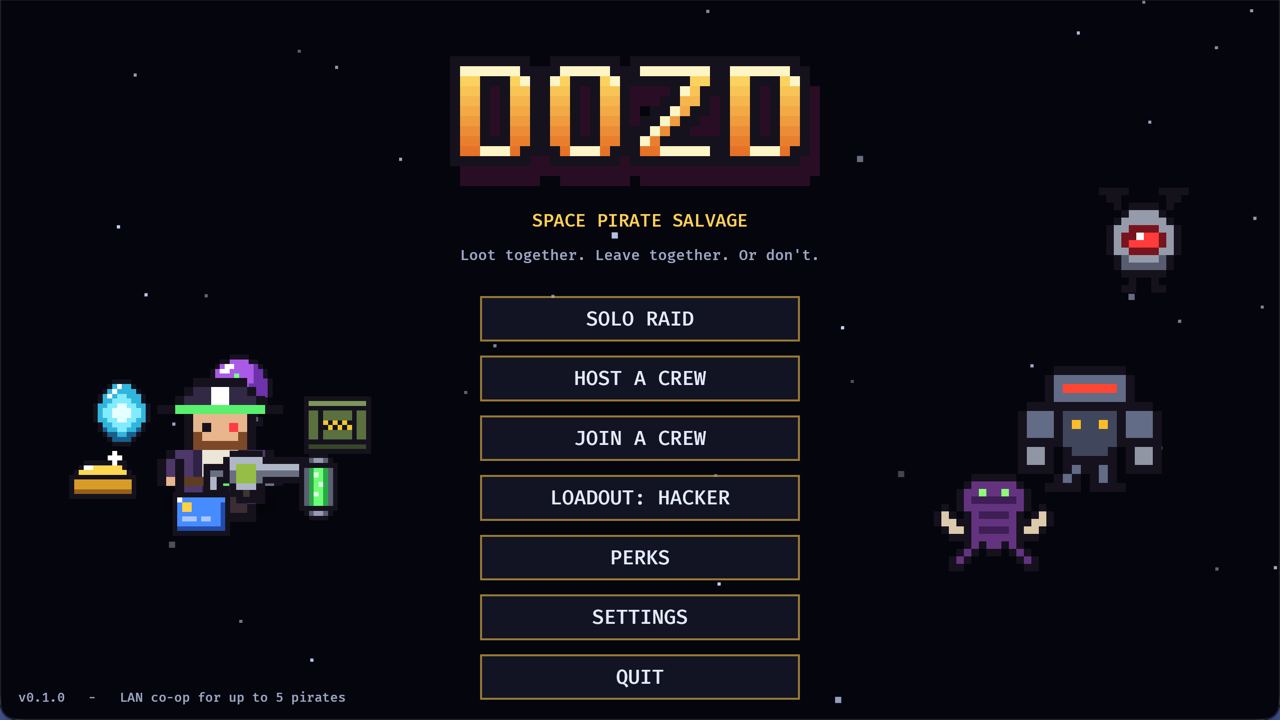
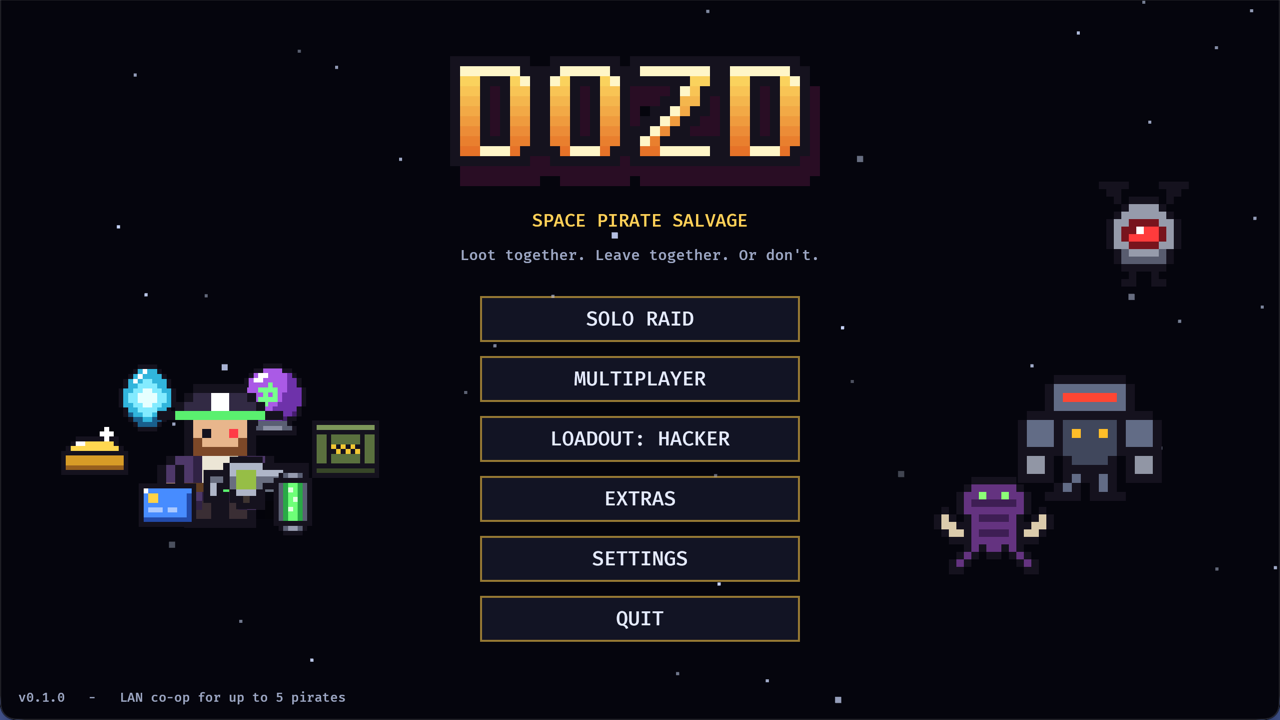
Added multiplayer and extras menus with an enemies screen

diff --git a/src/menu.rs b/src/menu.rs
@@ -8,6 +8,7 @@ use bevy::window::{CursorOptions, PrimaryWindow};
 use crate::class::{LocalLoadout, Loadout, PirateClass};
 use crate::guns::GunKind;
 use crate::crew::Roster;
+use crate::enemies::EnemyKind;
 use crate::net::{
     ChooseLoadout, Connection, DEFAULT_PORT, EndSession, LocalId, NetMode, Notice, StartSession, local_ip, parse_port,
     resolve,
@@ -46,6 +47,9 @@ impl Plugin for MenuPlugin {
             .add_systems(OnEnter(GameState::Lobby), (lobby_screen, show_cursor))
             .add_systems(OnExit(GameState::Lobby), hide_cursor)
             .add_systems(OnEnter(MenuScreen::Main), main_screen)
+            .add_systems(OnEnter(MenuScreen::Multiplayer), multiplayer_screen)
+            .add_systems(OnEnter(MenuScreen::Extras), extras_screen)
+            .add_systems(OnEnter(MenuScreen::Enemies), enemies_screen)
             .add_systems(OnEnter(MenuScreen::Host), host_screen)
             .add_systems(OnEnter(MenuScreen::Join), join_screen)
             .add_systems(OnEnter(MenuScreen::Loadout), loadout_screen)
@@ -92,20 +96,39 @@ impl Plugin for MenuPlugin {
 enum MenuScreen {
     #[default]
     Main,
+    /// Host or join.
+    Multiplayer,
     Host,
     Join,
     Loadout,
+    /// Perks and enemies.
+    Extras,
     Perks,
+    Enemies,
     Settings,
+}
+
+impl MenuScreen {
+    /// Where BACK leads from here.
+    fn parent(self) -> Self {
+        match self {
+            Self::Host | Self::Join => Self::Multiplayer,
+            Self::Perks | Self::Enemies => Self::Extras,
+            _ => Self::Main,
+        }
+    }
 }
 
 #[derive(Component, Event, Clone, Copy, PartialEq, Eq, Debug)]
 enum MenuCommand {
     Solo,
+    OpenMultiplayer,
     OpenHost,
     OpenJoin,
     OpenLoadout,
+    OpenExtras,
     OpenPerks,
+    OpenEnemies,
     OpenSettings,
     Toggle(Setting),
     Quit,
@@ -351,10 +374,9 @@ fn main_screen(mut commands: Commands, assets: Res<AssetServer>, loadout: Res<Lo
     let loadout_label = format!("LOADOUT: {}", loadout.0.class.name());
     commands.entity(root).with_children(|parent| {
         parent.spawn(button("SOLO RAID", MenuCommand::Solo));
-        parent.spawn(button("HOST A CREW", MenuCommand::OpenHost));
-        parent.spawn(button("JOIN A CREW", MenuCommand::OpenJoin));
+        parent.spawn(button("MULTIPLAYER", MenuCommand::OpenMultiplayer));
         parent.spawn(button(&loadout_label, MenuCommand::OpenLoadout));
-        parent.spawn(button("PERKS", MenuCommand::OpenPerks));
+        parent.spawn(button("EXTRAS", MenuCommand::OpenExtras));
         parent.spawn(button("SETTINGS", MenuCommand::OpenSettings));
         parent.spawn(button("QUIT", MenuCommand::Quit));
         parent.spawn(status_line());
@@ -373,6 +395,26 @@ fn main_screen(mut commands: Commands, assets: Res<AssetServer>, loadout: Res<Lo
             ..default()
         },
     ));
+}
+
+fn multiplayer_screen(mut commands: Commands, assets: Res<AssetServer>) {
+    let root = screen_root(&mut commands, &assets, MenuScreen::Multiplayer);
+    commands.entity(root).with_children(|parent| {
+        parent.spawn(label("MULTIPLAYER", 24.0, GOLD));
+        parent.spawn(button("HOST A CREW", MenuCommand::OpenHost));
+        parent.spawn(button("JOIN A CREW", MenuCommand::OpenJoin));
+        parent.spawn(button("BACK", MenuCommand::Back));
+    });
+}
+
+fn extras_screen(mut commands: Commands, assets: Res<AssetServer>) {
+    let root = screen_root(&mut commands, &assets, MenuScreen::Extras);
+    commands.entity(root).with_children(|parent| {
+        parent.spawn(label("EXTRAS", 24.0, GOLD));
+        parent.spawn(button("PERKS", MenuCommand::OpenPerks));
+        parent.spawn(button("ENEMIES", MenuCommand::OpenEnemies));
+        parent.spawn(button("BACK", MenuCommand::Back));
+    });
 }
 
 fn settings_screen(mut commands: Commands, assets: Res<AssetServer>, settings: Res<Settings>) {
@@ -559,10 +601,68 @@ fn loadout_cards(parent: &mut ChildSpawnerCommands, assets: &AssetServer) {
 
 }
 
+/// One card on the perks or enemies screen.
+struct Entry {
+    sprite: &'static str,
+    name: &'static str,
+    /// A word on what kind of thing it is, beside the name.
+    tag: &'static str,
+    /// A figure worth knowing: how long a perk lasts, a guard's health.
+    note: String,
+    details: &'static str,
+    color: Color,
+}
+
 fn perks_screen(mut commands: Commands, assets: Res<AssetServer>) {
+    let entries = PerkKind::ALL.map(|perk| Entry {
+        sprite: perk.sprite(),
+        name: perk.name(),
+        tag: perk.category(),
+        note: perk.duration().map_or("INSTANT".into(), |secs| format!("{secs:.0}s")),
+        details: perk.details(),
+        color: perk.color(),
+    });
+    codex_screen(
+        &mut commands,
+        &assets,
+        MenuScreen::Perks,
+        "PERKS",
+        "Found lying around each deck. Walk over one to use it.",
+        &entries,
+    );
+}
+
+fn enemies_screen(mut commands: Commands, assets: Res<AssetServer>) {
+    let entries = EnemyKind::ALL.map(|kind| Entry {
+        sprite: kind.sprite(),
+        name: kind.name(),
+        tag: kind.role(),
+        note: format!("{:.0} HP", kind.health()),
+        details: kind.details(),
+        color: kind.color(),
+    });
+    codex_screen(
+        &mut commands,
+        &assets,
+        MenuScreen::Enemies,
+        "ENEMIES",
+        "The station's security, and what it throws at you.",
+        &entries,
+    );
+}
+
+/// A full-screen grid of cards, each a picture beside its name and what it does.
+fn codex_screen(
+    commands: &mut Commands,
+    assets: &AssetServer,
+    screen: MenuScreen,
+    title: &str,
+    subtitle: &str,
+    entries: &[Entry],
+) {
     commands
         .spawn((
-            DespawnOnExit(MenuScreen::Perks),
+            DespawnOnExit(screen),
             Node {
                 width: Val::Percent(100.0),
                 height: Val::Percent(100.0),
@@ -574,12 +674,8 @@ fn perks_screen(mut commands: Commands, assets: Res<AssetServer>) {
             },
         ))
         .with_children(|parent| {
-            parent.spawn(label("PERKS", 28.0, GOLD));
-            parent.spawn(label(
-                "Found lying around each deck. Walk over one to use it.",
-                15.0,
-                DIM,
-            ));
+            parent.spawn(label(title, 28.0, GOLD));
+            parent.spawn(label(subtitle, 15.0, DIM));
             parent
                 .spawn(Node {
                     column_gap: Val::Px(16.0),
@@ -590,8 +686,7 @@ fn perks_screen(mut commands: Commands, assets: Res<AssetServer>) {
                     ..default()
                 })
                 .with_children(|grid| {
-                    for perk in PerkKind::ALL {
-                        let duration = perk.duration().map_or("INSTANT".into(), |secs| format!("{secs:.0}s"));
+                    for entry in entries {
                         grid.spawn((
                             Node {
                                 width: Val::Px(420.0),
@@ -603,11 +698,11 @@ fn perks_screen(mut commands: Commands, assets: Res<AssetServer>) {
                                 ..default()
                             },
                             BackgroundColor(BUTTON),
-                            BorderColor::all(perk.color().with_alpha(0.5)),
+                            BorderColor::all(entry.color.with_alpha(0.5)),
                         ))
                         .with_children(|card| {
                             card.spawn((
-                                ImageNode::new(assets.load(perk.sprite())),
+                                ImageNode::new(assets.load(entry.sprite)),
                                 Node {
                                     width: Val::Px(64.0),
                                     height: Val::Px(64.0),
@@ -627,12 +722,12 @@ fn perks_screen(mut commands: Commands, assets: Res<AssetServer>) {
                                     align_items: AlignItems::Baseline,
                                     ..default()
                                 })
-                                .with_children(|title| {
-                                    title.spawn(label(perk.name(), 20.0, perk.color()));
-                                    title.spawn(label(perk.category(), 12.0, DIM));
-                                    title.spawn(label(duration, 14.0, TEXT));
+                                .with_children(|heading| {
+                                    heading.spawn(label(entry.name, 20.0, entry.color));
+                                    heading.spawn(label(entry.tag, 12.0, DIM));
+                                    heading.spawn(label(entry.note.clone(), 14.0, TEXT));
                                 });
-                                info.spawn(label(perk.details(), 14.0, TEXT));
+                                info.spawn(label(entry.details, 14.0, TEXT));
                             });
                         });
                     }
@@ -677,6 +772,7 @@ fn run_menu_command(
     mut memory: ResMut<MenuMemory>,
     mut notice: ResMut<Notice>,
     fields: Query<&TextField>,
+    current: Res<State<MenuScreen>>,
     mut screen: ResMut<NextState<MenuScreen>>,
     mut settings: ResMut<Settings>,
     mut exit: MessageWriter<AppExit>,
@@ -700,7 +796,10 @@ fn run_menu_command(
             notice.0 = None;
             screen.set(MenuScreen::Loadout);
         }
+        MenuCommand::OpenMultiplayer => screen.set(MenuScreen::Multiplayer),
+        MenuCommand::OpenExtras => screen.set(MenuScreen::Extras),
         MenuCommand::OpenPerks => screen.set(MenuScreen::Perks),
+        MenuCommand::OpenEnemies => screen.set(MenuScreen::Enemies),
         MenuCommand::OpenSettings => screen.set(MenuScreen::Settings),
         MenuCommand::Toggle(setting) => {
             match setting {
@@ -742,7 +841,7 @@ fn run_menu_command(
                 commands.trigger(EndSession(None));
             } else {
                 notice.0 = None;
-                screen.set(MenuScreen::Main);
+                screen.set(current.get().parent());
             }
         }
     }
@@ -1029,9 +1128,9 @@ fn spawn_backdrop(mut commands: Commands, assets: Res<AssetServer>, loadout: Res
     commands.entity(gun).insert(BackdropPirate::Gun);
 }
 
-/// The loadout and perks screens fill the window, so the backdrop would only clutter them.
+/// The loadout, perks and enemies screens fill the window, so the backdrop would only clutter them.
 fn hide_backdrop(screen: Res<State<MenuScreen>>, mut sprites: Query<&mut Visibility, With<Backdrop>>) {
-    let full = matches!(screen.get(), MenuScreen::Loadout | MenuScreen::Perks);
+    let full = matches!(screen.get(), MenuScreen::Loadout | MenuScreen::Perks | MenuScreen::Enemies);
     let visibility = if full { Visibility::Hidden } else { Visibility::Inherited };
     for mut v in &mut sprites {
         v.set_if_neq(visibility);

diff --git a/src/enemies.rs b/src/enemies.rs
@@ -187,6 +187,52 @@ impl EnemyKind {
             Self::Herald => &HERALD,
         }
     }
+
+    pub const ALL: [EnemyKind; 5] = [Self::SentryDrone, Self::Stalker, Self::Warden, Self::Brute, Self::Herald];
+
+    pub fn name(self) -> &'static str {
+        match self {
+            Self::SentryDrone => "SENTRY DRONE",
+            Self::Stalker => "STALKER",
+            Self::Warden => "WARDEN",
+            Self::Brute => "BRUTE",
+            Self::Herald => "HERALD",
+        }
+    }
+
+    /// How it fights, in a word, for the enemies screen.
+    pub fn role(self) -> &'static str {
+        match self {
+            Self::SentryDrone => "RANGED",
+            Self::Stalker | Self::Brute => "MELEE",
+            Self::Warden => "HEAVY",
+            Self::Herald => "SUPPORT",
+        }
+    }
+
+    /// What to expect from it, for the enemies screen.
+    pub fn details(self) -> &'static str {
+        match self {
+            Self::SentryDrone => "Hovers at mid range, strafing, and fires three-round bursts.",
+            Self::Stalker => "Fast alien. Winds up, then lunges: sidestep it.",
+            Self::Warden => "Slow armoured tank. Holds its ground and fires wide spreads.",
+            Self::Brute => "Hulking bruiser. Plods after you and punches hard up close.",
+            Self::Herald => "Rallies on sight: a war cry that empowers guards nearby for good, or alone, a frenzy. Stun it to stop it.",
+        }
+    }
+
+    pub fn sprite(self) -> &'static str {
+        self.stats().sprite
+    }
+
+    pub fn health(self) -> f32 {
+        self.stats().health
+    }
+
+    /// Its colour when it goes down, to tint its card.
+    pub fn color(self) -> Color {
+        self.stats().death_color
+    }
 }
 
 #[derive(Serialize, Deserialize, Clone, Copy, PartialEq, Eq, Debug)]

diff --git a/src/guns.rs b/src/guns.rs
@@ -233,7 +233,7 @@ const GRENADE_LAUNCHER: GunStats = GunStats {
 
 const NOVA_CANNON: GunStats = GunStats {
     name: "Nova Cannon",
-    role: "hold to charge, burns cells",
+    role: "charged, burns cells",
     mode: FireMode::Charge {
         cell_time: 0.4,
         radius: 44.0,

diff --git a/README.md b/README.md
@@ -21,9 +21,11 @@ Built with Rust and [Bevy](https://bevyengine.org/); LAN multiplayer uses
 | ![Main menu](docs/screenshots/menu.png) | ![Loadout](docs/screenshots/loadout.png) |
 | The main menu | Picking a class and guns |
 | ![Crew lobby](docs/screenshots/lobby.png) | ![Perks](docs/screenshots/perks.png) |
-| The crew lobby: one of each class, picked by whoever took it | The perks lying around each deck |
+| The crew lobby: one of each class, picked by whoever took it | The perks lying around each deck, under **EXTRAS** |
 | ![A raid](docs/screenshots/raid.png) | ![Results](docs/screenshots/results.png) |
 | A Bulwark and a Doctor against a Herald's empowered guards, with each other's status in the crew panel | A crew that didn't make it out |
+| ![Enemies](docs/screenshots/enemies.png) | |
+| The station's guards, under **EXTRAS** in the main menu | |
 
 ## Run
 
@@ -45,8 +47,8 @@ Every pirate carries 3 guns, in the order you pick them.
 Class passives show as chips under your bars and on each crewmate's card,
 alongside a Doctor's ward.
 
-Online, a crew holds at most one of each class, so up to 5 pirates. Hosting
-opens a lobby where everyone picks a free class and their guns, then the host
+Online, a crew holds at most one of each class, so up to 5 pirates. Host or
+join one under **MULTIPLAYER**. Hosting opens a lobby where everyone picks a free class and their guns, then the host
 starts the run; after each run the crew returns to the lobby. Someone joining
 mid-run picks from the classes still free.
 
